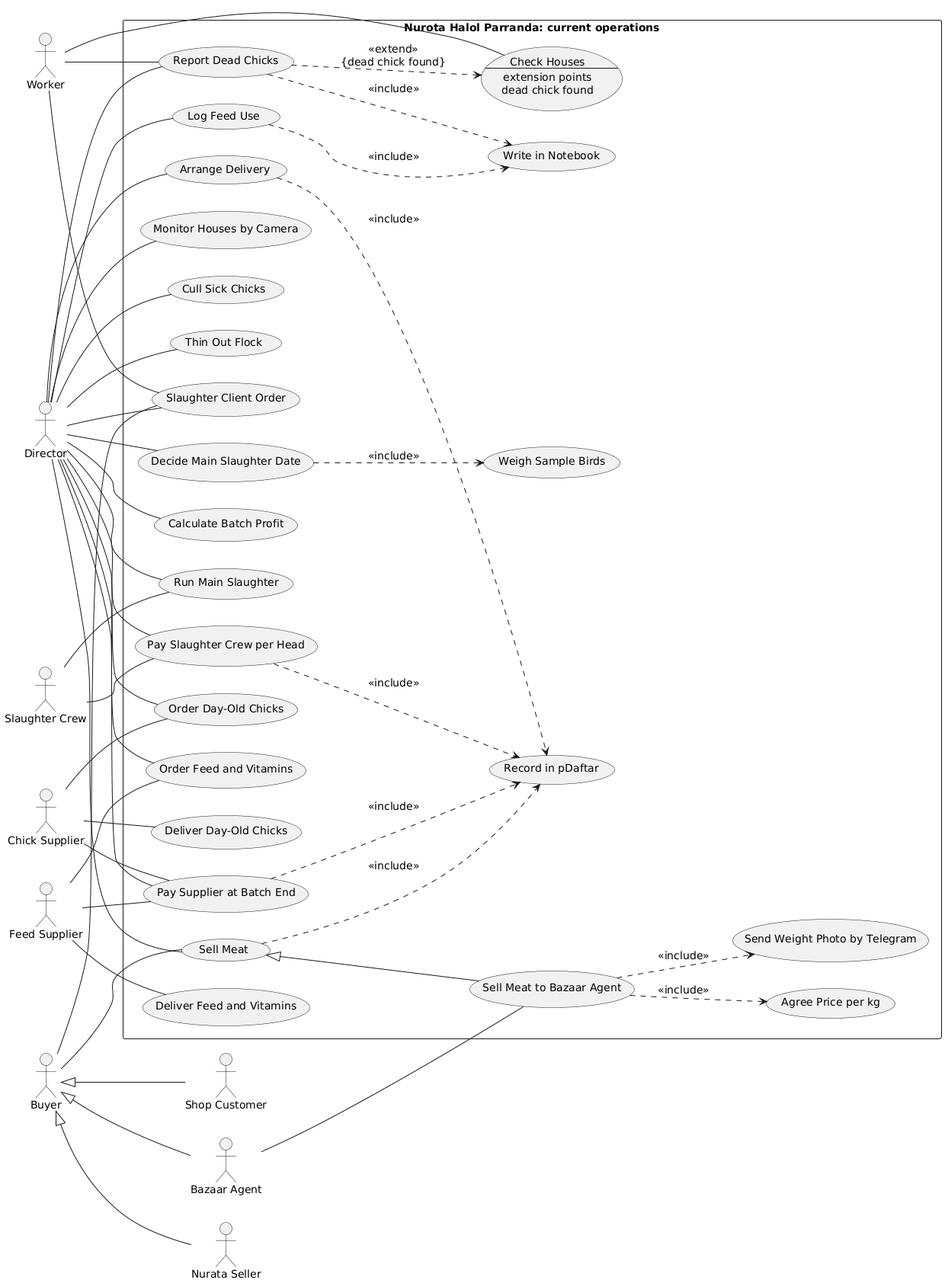
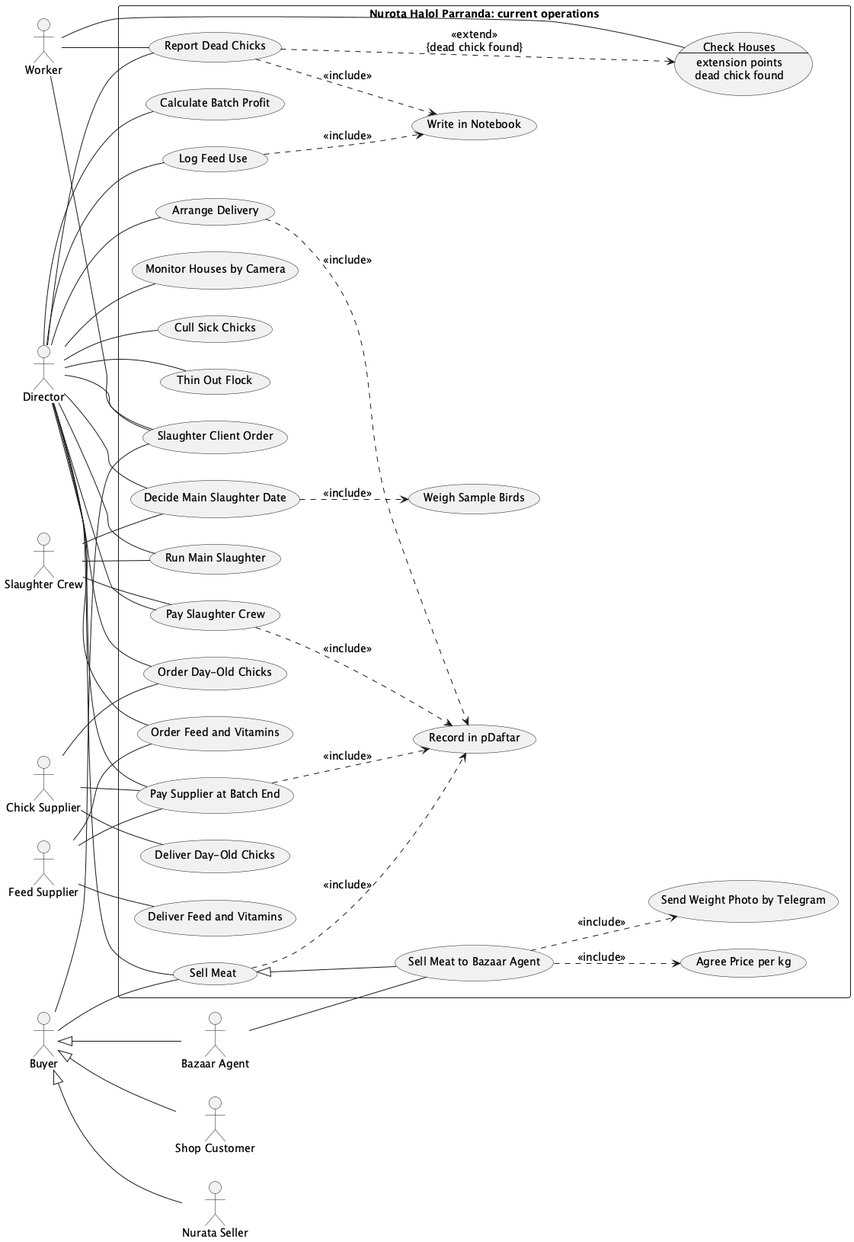
Revise use case diagram and use cases after assessor review
Rename Pay Slaughter Crew per Head to Pay Slaughter Crew, link the crew
to Decide Main Slaughter Date, re-lay out the diagram, move UC-03's repeat
session into the basic flow, describe supplier payment as contract terms
paid at batch end, and rewrite the prose to read less formulaic.

diff --git a/scripts/generate_use_cases.py b/scripts/generate_use_cases.py
@@ -16,11 +16,11 @@ UCS = [
         "Application": "Nurota Halol Parranda current operations: procurement (Figure 2.1)",
         "Use Case Name": "Order Day-Old Chicks",
         "Use Case Description": (
-            "The Director orders a new batch of chicks for an empty house from the contracted supplier in Tashkent. The chicks are bought on credit and paid for only when the batch ends, so the batch's chick cost stays unpaid while its meat is already being sold."
+            "The Director orders a new batch of chicks for an empty house from the contracted supplier in Tashkent. Because the contract has the chicks paid for only when the batch ends, the farm is already selling a batch's meat before it has paid for the birds."
         ),
         "Primary Actor": "Director",
         "Secondary Actor(s)": "Chick Supplier",
-        "Precondition": "A supply contract with credit terms is in place with the chick supplier in Tashkent.",
+        "Precondition": "A supply contract is in place with the chick supplier in Tashkent, with payment due when the batch ends.",
         "Postconditions": (
             "Day-old chicks matching the house's capacity have been delivered by the supplier, and their cost "
             "is owed to the supplier until the batch ends."
@@ -29,7 +29,7 @@ UCS = [
         "Basic Flow": [
             "The Director confirms that the house has been cleaned and prepared.",
             "The Director sets the order size from the house's 5,000–10,000-bird capacity.",
-            "The Director places the order on credit with the contracted supplier in Tashkent.",
+            "The Director places the order with the contracted supplier in Tashkent.",
             "The supplier delivers the chicks to the farm by Damas van.",
         ],
         "Extensions": [
@@ -41,10 +41,10 @@ UCS = [
         "Application": "Nurota Halol Parranda current operations: slaughter and sales (Figure 2.1)",
         "Use Case Name": "Decide Main Slaughter Date",
         "Use Case Description": (
-            "The Director decides when to call in the slaughter crew, judging the birds' age, the average weight of about ten birds and his own experience together. No record of a target weight or age is named, so the decision cannot be checked or made by anyone else."
+            "The Director decides when to call in the slaughter crew. He weighs up the birds' age, the average weight of about ten birds and his own experience. We found no written target weight or age, and the call depends on him alone: nobody else could make it or check it."
         ),
         "Primary Actor": "Director",
-        "Secondary Actor(s)": "None",
+        "Secondary Actor(s)": "Slaughter Crew",
         "Precondition": (
             "The batch is near the end of its growth period, and the early thinning of roughly 4,000 birds "
             "around day 35–40 has taken place."
@@ -55,7 +55,7 @@ UCS = [
         "Trigger": "The batch approaches the end of its 40–50-day growth period.",
         "Basic Flow": [
             "The Director checks the batch's age against its 40–50-day growth period.",
-            "The Director obtains the average weight of a random sample of about ten birds (includes Weigh Sample Birds).",
+            "The Director weighs a sample of about ten birds and takes their average (includes Weigh Sample Birds).",
             "The Director judges from the age, the sample average and his experience that the batch is ready.",
             "The Director calls in the hired crew, starting UC-03 Run Main Slaughter.",
         ],
@@ -68,16 +68,16 @@ UCS = [
         "Application": "Nurota Halol Parranda current operations: slaughter and sales (Figure 2.1)",
         "Use Case Name": "Run Main Slaughter",
         "Use Case Description": (
-            "The Director has a hired crew of about six slaughter and clean 1,000–1,200 birds in one overnight session, and a batch needs as many sessions as it takes to empty the house. The butcher is paid per head on a count agreed by word of mouth, so the figure that sets his pay is not recorded anywhere."
+            "A hired crew of about six slaughters and cleans 1,000–1,200 birds in one overnight session, and the Director calls them back as many times as it takes to empty the house. The butcher is paid per head. The count behind that pay is agreed out loud at the end of each session and is not recorded."
         ),
         "Primary Actor": "Director",
         "Secondary Actor(s)": "Slaughter Crew",
-        "Precondition": "UC-02 Decide Main Slaughter Date has concluded that the batch is ready for slaughter.",
+        "Precondition": "The Director has judged the batch ready for slaughter (UC-02 Decide Main Slaughter Date).",
         "Postconditions": (
-            "One session's birds are processed and ready for UC-04, and the head count that sets the butcher's "
-            "pay has been agreed verbally."
+            "One session's birds are processed and ready for UC-04, the head count that sets the butcher's "
+            "pay has been agreed verbally, and the crew has been called back for the next session."
         ),
-        "Trigger": "The Director calls in the hired crew.",
+        "Trigger": "The Director calls in the hired crew, first at the end of UC-02 and then once for each further session.",
         "Basic Flow": [
             "The crew arrives for an overnight session.",
             "The butcher kills each bird.",
@@ -85,9 +85,10 @@ UCS = [
             "The plucker removes the feathers.",
             "Two to three crew workers clean the internal organs.",
             "The Director and the butcher agree the session's head count verbally.",
+            "The Director calls the crew back for the next session.",
         ],
         "Extensions": [
-            "6a. Birds remain in the house after the session: the use case ends with the batch only partly slaughtered, and the Director calls the crew back for a further session, which starts this use case again.",
+            "7a. No birds remain in the house after the session: the Director does not call the crew back, the batch's slaughter is finished, and the house goes to cleaning before the next order (UC-01). The use case ends.",
         ],
     },
     {
@@ -95,7 +96,7 @@ UCS = [
         "Application": "Nurota Halol Parranda current operations: slaughter and sales (Figure 2.1)",
         "Use Case Name": "Sell Meat to Bazaar Agent",
         "Use Case Description": (
-            "The Director sells each session's meat to the Bazaar Agent, the farm's largest buyer, who resells it to seven to nine other sellers and so pays around 26,000 UZS/kg, a little below the bazaar rate. The agent's Telegram photo of the kilograms is checked against a second record kept by someone from the farm, but neither weight record reaches pDaftar, only the payment."
+            "The Bazaar Agent is the farm's largest buyer. As a middleman reselling to seven to nine other sellers, the agent pays only about 26,000 UZS/kg, a little below the bazaar rate. Someone from the farm writes down the same weighings as the agent, and the Director compares the two. Only the payment reaches pDaftar; both weight records stay outside it."
         ),
         "Primary Actor": "Director",
         "Secondary Actor(s)": "Bazaar Agent",
@@ -105,13 +106,13 @@ UCS = [
         ),
         "Trigger": "A slaughter session finishes and its meat is ready.",
         "Basic Flow": [
-            "The Director and the agent agree the price per kg verbally, a little below that day's bazaar rate (includes Agree Price per kg).",
+            "The Director and the agent agree that day's price per kg between them, a little below the bazaar rate (includes Agree Price per kg).",
             "The Director sends the meat to Navoi bazaar with a temporarily hired driver.",
             "The agent weighs the meat, while a second person from the farm records the same weighings.",
             "The agent photographs his kg totals and sends them to the Director on Telegram (includes Send Weight Photo by Telegram).",
             "The Director checks the photographed totals against the farm's own record.",
             "The agent pays the Director the total kg × the agreed price per kg in cash at the end of the day.",
-            "The Director records the revenue in pDaftar (includes Record in pDaftar, via Sell Meat).",
+            "The Director records the revenue in pDaftar (Record in pDaftar, which Sell Meat includes).",
         ],
         "Extensions": [
             "6a. The agent pays by bank transfer instead of cash: the flow resumes at step 7.",
@@ -166,13 +167,13 @@ HEAD = """# Use Cases
 <!--
 Generated by scripts/generate_use_cases.py - edit the data there and re-run it, not the tables here. Names and actors must match 2-use-case-diagram.md.
 Facts beyond 0-business-case.md come from Muzaffar's confirmed answers (see the comment in 2-use-case-diagram.md).
-Confirmed 2026-10-26 and used here: chicks only from Tashkent; chicks and feed bought on credit under contract and paid when each batch ends;
+Confirmed 2026-10-26 and used here: chicks only from Tashkent; chicks and feed bought under contract and paid when each batch ends (user confirmed again 2026-10-26: 'paid by contract', at batch end);
 suppliers deliver; readiness judged on age + random-sample average weight + experience; number of slaughter sessions per batch not fixed;
 Bazaar Agent is an independent middleman paying a little below the bazaar rate; amount owed = kg x price; a second person from the farm
 also records the bazaar weighings; agent pays cash or transfer at the end of the day.
 To confirm with Muzaffar (question -> table -> marks at stake):
 - If the agent's photo kg and the farm's record disagree, what happens? -> UC-04 exception 5a -> +1 (quality).
-- Has the crew ever disputed the head count, or not turned up? -> UC-03 / UC-02 exception -> +0.5.
+- Has the crew ever disputed the head count, or not turned up? -> UC-03 exception (its only extension, 7a, is an alternate ending) -> +0.5.
 - Have chicks ever arrived short or dead? What did the Director do? -> UC-01 exception -> +0.5.
 - Who is the "second person from our side" at the bazaar? (sections 4-5 say a Worker) -> UC-04 step 3.
 - Who weighs the sample birds? (sections 4-5 say the Director) -> UC-02 step 2.
@@ -181,21 +182,21 @@ Flag for section 1 (Muzaffar): every 2026-10-24/26 answer used here needs to be 
 Flag for Nodir: sections 4-5 say the agent pays "at" the day's bazaar rate; confirmed answer is "a little below".
 -->
 
-The four use cases follow one batch from buying the chicks to selling the meat, and each turns on a decision that moves money: what the batch costs (UC-01), when it is slaughtered (UC-02), what processing costs (UC-03) and what the meat earns (UC-04). The Feed Supplier is left out because a feed order runs on the same credit terms as UC-01. The Worker, the Nurata Seller and the Shop Customer are left out because the farm has not described the steps of their use cases. Two of the four decisions rest only on word of mouth: the butcher's head count (UC-03) and the agent's price per kg (UC-04).
+The four use cases follow one batch from buying the chicks to selling the meat. We chose them because each turns on a decision that moves money: what the batch costs (UC-01), when it is slaughtered (UC-02), what slaughtering costs (UC-03) and what the meat earns (UC-04). Feed is ordered on the same contract terms as chicks, so a feed table would repeat UC-01. Selling is shown through the Bazaar Agent, the largest channel and the only sale with steps of its own (Figure 2.1). Two of the four decisions rest on nothing more than a spoken agreement: the butcher's head count (UC-03) and the agent's price per kg (UC-04).
 """
 
 TAIL = """
-Each gap these use cases expose has to be closed by a requirement in section 7.
+Section 7 has to close each gap in the table below.
 
 | Finding | Evidence | Where it shows | Section 7 must cover |
 |---|---|---|---|
 | Deaths and feed use never reach the profit figure | Section 0: notebook and pDaftar kept separately | Write in Notebook, Record in pDaftar (Figure 2.1) | One batch record linking deaths, feed, costs and sales |
 | The slaughter date rests on a sample and judgement, with no recorded target | Section 0; interview 26-10 | UC-02 steps 2-3 | Recording sample weights and age per batch |
 | The butcher's pay rests on a spoken head count | Section 0 | UC-03 step 6 | Recording the head count per session |
-| The agent's price per kg is agreed by word of mouth | Interview 24-10 | UC-04 step 1 | Recording the agreed price and keeping a price history |
+| The agent's price per kg is agreed each time and not written down | Interview 24-10 | UC-04 step 1 | Recording the agreed price and keeping a price history |
 | The agent's kilograms can be checked only against a second record kept by the farm | Interview 26-10 | UC-04 steps 3-5 | Recording both weights and flagging any difference |
 | Chick and feed costs are settled only when the batch ends | Interview 26-10 | UC-01; Pay Supplier at Batch End | Running batch cost from the day the chicks arrive |
-| The crew is paid per head but every buyer pays per kg | Section 0 | UC-03 step 6, UC-04 step 6 | Recording heads and kilograms per session |
+| The butcher is paid per head but every buyer pays per kg | Section 0 | UC-03 step 6, UC-04 step 6 | Recording heads and kilograms per session |
 """
 
 body = [HEAD]

diff --git a/3-use-cases.md b/3-use-cases.md
@@ -5,13 +5,13 @@
 <!--
 Generated by scripts/generate_use_cases.py - edit the data there and re-run it, not the tables here. Names and actors must match 2-use-case-diagram.md.
 Facts beyond 0-business-case.md come from Muzaffar's confirmed answers (see the comment in 2-use-case-diagram.md).
-Confirmed 2026-10-26 and used here: chicks only from Tashkent; chicks and feed bought on credit under contract and paid when each batch ends;
+Confirmed 2026-10-26 and used here: chicks only from Tashkent; chicks and feed bought under contract and paid when each batch ends (user confirmed again 2026-10-26: 'paid by contract', at batch end);
 suppliers deliver; readiness judged on age + random-sample average weight + experience; number of slaughter sessions per batch not fixed;
 Bazaar Agent is an independent middleman paying a little below the bazaar rate; amount owed = kg x price; a second person from the farm
 also records the bazaar weighings; agent pays cash or transfer at the end of the day.
 To confirm with Muzaffar (question -> table -> marks at stake):
 - If the agent's photo kg and the farm's record disagree, what happens? -> UC-04 exception 5a -> +1 (quality).
-- Has the crew ever disputed the head count, or not turned up? -> UC-03 / UC-02 exception -> +0.5.
+- Has the crew ever disputed the head count, or not turned up? -> UC-03 exception (its only extension, 7a, is an alternate ending) -> +0.5.
 - Have chicks ever arrived short or dead? What did the Director do? -> UC-01 exception -> +0.5.
 - Who is the "second person from our side" at the bazaar? (sections 4-5 say a Worker) -> UC-04 step 3.
 - Who weighs the sample birds? (sections 4-5 say the Director) -> UC-02 step 2.
@@ -20,7 +20,7 @@ Flag for section 1 (Muzaffar): every 2026-10-24/26 answer used here needs to be 
 Flag for Nodir: sections 4-5 say the agent pays "at" the day's bazaar rate; confirmed answer is "a little below".
 -->
 
-The four use cases follow one batch from buying the chicks to selling the meat, and each turns on a decision that moves money: what the batch costs (UC-01), when it is slaughtered (UC-02), what processing costs (UC-03) and what the meat earns (UC-04). The Feed Supplier is left out because a feed order runs on the same credit terms as UC-01. The Worker, the Nurata Seller and the Shop Customer are left out because the farm has not described the steps of their use cases. Two of the four decisions rest only on word of mouth: the butcher's head count (UC-03) and the agent's price per kg (UC-04).
+The four use cases follow one batch from buying the chicks to selling the meat. We chose them because each turns on a decision that moves money: what the batch costs (UC-01), when it is slaughtered (UC-02), what slaughtering costs (UC-03) and what the meat earns (UC-04). Feed is ordered on the same contract terms as chicks, so a feed table would repeat UC-01. Selling is shown through the Bazaar Agent, the largest channel and the only sale with steps of its own (Figure 2.1). Two of the four decisions rest on nothing more than a spoken agreement: the butcher's head count (UC-03) and the agent's price per kg (UC-04).
 
 
 **UC-01: Order Day-Old Chicks**
@@ -33,16 +33,16 @@ The four use cases follow one batch from buying the chicks to selling the meat, 
 | **Use Case Name**        | Order Day-Old Chicks                                               |
 +--------------------------+--------------------------------------------------------------------+
 | **Use Case Description** | The Director orders a new batch of chicks for an empty house from  |
-|                          | the contracted supplier in Tashkent. The chicks are bought on      |
-|                          | credit and paid for only when the batch ends, so the batch's chick |
-|                          | cost stays unpaid while its meat is already being sold.            |
+|                          | the contracted supplier in Tashkent. Because the contract has the  |
+|                          | chicks paid for only when the batch ends, the farm is already      |
+|                          | selling a batch's meat before it has paid for the birds.           |
 +--------------------------+--------------------------------------------------------------------+
 | **Primary Actor**        | Director                                                           |
 +--------------------------+--------------------------------------------------------------------+
 | **Secondary Actor(s)**   | Chick Supplier                                                     |
 +--------------------------+--------------------------------------------------------------------+
-| **Precondition**         | A supply contract with credit terms is in place with the chick     |
-|                          | supplier in Tashkent.                                              |
+| **Precondition**         | A supply contract is in place with the chick supplier in Tashkent, |
+|                          | with payment due when the batch ends.                              |
 +--------------------------+--------------------------------------------------------------------+
 | **Postconditions**       | Day-old chicks matching the house's capacity have been delivered   |
 |                          | by the supplier, and their cost is owed to the supplier until the  |
@@ -54,8 +54,8 @@ The four use cases follow one batch from buying the chicks to selling the meat, 
 |                          |    prepared.                                                       |
 |                          | 2. The Director sets the order size from the house's               |
 |                          |    5,000–10,000-bird capacity.                                     |
-|                          | 3. The Director places the order on credit with the contracted     |
-|                          |    supplier in Tashkent.                                           |
+|                          | 3. The Director places the order with the contracted supplier in   |
+|                          |    Tashkent.                                                       |
 |                          | 4. The supplier delivers the chicks to the farm by Damas van.      |
 +--------------------------+--------------------------------------------------------------------+
 | **Extensions (Alternate  | 1a. The house is not yet cleaned: the order waits until cleaning   |
@@ -73,14 +73,14 @@ The four use cases follow one batch from buying the chicks to selling the meat, 
 +--------------------------+--------------------------------------------------------------------+
 | **Use Case Name**        | Decide Main Slaughter Date                                         |
 +--------------------------+--------------------------------------------------------------------+
-| **Use Case Description** | The Director decides when to call in the slaughter crew, judging   |
-|                          | the birds' age, the average weight of about ten birds and his own  |
-|                          | experience together. No record of a target weight or age is named, |
-|                          | so the decision cannot be checked or made by anyone else.          |
+| **Use Case Description** | The Director decides when to call in the slaughter crew. He weighs |
+|                          | up the birds' age, the average weight of about ten birds and his   |
+|                          | own experience. We found no written target weight or age, and the  |
+|                          | call depends on him alone: nobody else could make it or check it.  |
 +--------------------------+--------------------------------------------------------------------+
 | **Primary Actor**        | Director                                                           |
 +--------------------------+--------------------------------------------------------------------+
-| **Secondary Actor(s)**   | None                                                               |
+| **Secondary Actor(s)**   | Slaughter Crew                                                     |
 +--------------------------+--------------------------------------------------------------------+
 | **Precondition**         | The batch is near the end of its growth period, and the early      |
 |                          | thinning of roughly 4,000 birds around day 35–40 has taken place.  |
@@ -91,8 +91,8 @@ The four use cases follow one batch from buying the chicks to selling the meat, 
 +--------------------------+--------------------------------------------------------------------+
 | **Basic Flow**           | 1. The Director checks the batch's age against its 40–50-day       |
 |                          |    growth period.                                                  |
-|                          | 2. The Director obtains the average weight of a random sample of   |
-|                          |    about ten birds (includes Weigh Sample Birds).                  |
+|                          | 2. The Director weighs a sample of about ten birds and takes their |
+|                          |    average (includes Weigh Sample Birds).                          |
 |                          | 3. The Director judges from the age, the sample average and his    |
 |                          |    experience that the batch is ready.                             |
 |                          | 4. The Director calls in the hired crew, starting UC-03 Run Main   |
@@ -114,23 +114,25 @@ The four use cases follow one batch from buying the chicks to selling the meat, 
 +--------------------------+--------------------------------------------------------------------+
 | **Use Case Name**        | Run Main Slaughter                                                 |
 +--------------------------+--------------------------------------------------------------------+
-| **Use Case Description** | The Director has a hired crew of about six slaughter and clean     |
-|                          | 1,000–1,200 birds in one overnight session, and a batch needs as   |
-|                          | many sessions as it takes to empty the house. The butcher is paid  |
-|                          | per head on a count agreed by word of mouth, so the figure that    |
-|                          | sets his pay is not recorded anywhere.                             |
+| **Use Case Description** | A hired crew of about six slaughters and cleans 1,000–1,200 birds  |
+|                          | in one overnight session, and the Director calls them back as many |
+|                          | times as it takes to empty the house. The butcher is paid per      |
+|                          | head. The count behind that pay is agreed out loud at the end of   |
+|                          | each session and is not recorded.                                  |
 +--------------------------+--------------------------------------------------------------------+
 | **Primary Actor**        | Director                                                           |
 +--------------------------+--------------------------------------------------------------------+
 | **Secondary Actor(s)**   | Slaughter Crew                                                     |
 +--------------------------+--------------------------------------------------------------------+
-| **Precondition**         | UC-02 Decide Main Slaughter Date has concluded that the batch is   |
-|                          | ready for slaughter.                                               |
+| **Precondition**         | The Director has judged the batch ready for slaughter (UC-02       |
+|                          | Decide Main Slaughter Date).                                       |
 +--------------------------+--------------------------------------------------------------------+
-| **Postconditions**       | One session's birds are processed and ready for UC-04, and the     |
-|                          | head count that sets the butcher's pay has been agreed verbally.   |
+| **Postconditions**       | One session's birds are processed and ready for UC-04, the head    |
+|                          | count that sets the butcher's pay has been agreed verbally, and    |
+|                          | the crew has been called back for the next session.                |
 +--------------------------+--------------------------------------------------------------------+
-| **Trigger**              | The Director calls in the hired crew.                              |
+| **Trigger**              | The Director calls in the hired crew, first at the end of UC-02    |
+|                          | and then once for each further session.                            |
 +--------------------------+--------------------------------------------------------------------+
 | **Basic Flow**           | 1. The crew arrives for an overnight session.                      |
 |                          | 2. The butcher kills each bird.                                    |
@@ -139,10 +141,12 @@ The four use cases follow one batch from buying the chicks to selling the meat, 
 |                          | 5. Two to three crew workers clean the internal organs.            |
 |                          | 6. The Director and the butcher agree the session's head count     |
 |                          |    verbally.                                                       |
+|                          | 7. The Director calls the crew back for the next session.          |
 +--------------------------+--------------------------------------------------------------------+
-| **Extensions (Alternate  | 6a. Birds remain in the house after the session: the use case ends |
-| Flows)**                 | with the batch only partly slaughtered, and the Director calls the |
-|                          | crew back for a further session, which starts this use case again. |
+| **Extensions (Alternate  | 7a. No birds remain in the house after the session: the Director   |
+| Flows)**                 | does not call the crew back, the batch's slaughter is finished,    |
+|                          | and the house goes to cleaning before the next order (UC-01). The  |
+|                          | use case ends.                                                     |
 +--------------------------+--------------------------------------------------------------------+
 
 
@@ -156,12 +160,12 @@ The four use cases follow one batch from buying the chicks to selling the meat, 
 +--------------------------+--------------------------------------------------------------------+
 | **Use Case Name**        | Sell Meat to Bazaar Agent                                          |
 +--------------------------+--------------------------------------------------------------------+
-| **Use Case Description** | The Director sells each session's meat to the Bazaar Agent, the    |
-|                          | farm's largest buyer, who resells it to seven to nine other        |
-|                          | sellers and so pays around 26,000 UZS/kg, a little below the       |
-|                          | bazaar rate. The agent's Telegram photo of the kilograms is        |
-|                          | checked against a second record kept by someone from the farm, but |
-|                          | neither weight record reaches pDaftar, only the payment.           |
+| **Use Case Description** | The Bazaar Agent is the farm's largest buyer. As a middleman       |
+|                          | reselling to seven to nine other sellers, the agent pays only      |
+|                          | about 26,000 UZS/kg, a little below the bazaar rate. Someone from  |
+|                          | the farm writes down the same weighings as the agent, and the      |
+|                          | Director compares the two. Only the payment reaches pDaftar; both  |
+|                          | weight records stay outside it.                                    |
 +--------------------------+--------------------------------------------------------------------+
 | **Primary Actor**        | Director                                                           |
 +--------------------------+--------------------------------------------------------------------+
@@ -174,9 +178,9 @@ The four use cases follow one batch from buying the chicks to selling the meat, 
 +--------------------------+--------------------------------------------------------------------+
 | **Trigger**              | A slaughter session finishes and its meat is ready.                |
 +--------------------------+--------------------------------------------------------------------+
-| **Basic Flow**           | 1. The Director and the agent agree the price per kg verbally, a   |
-|                          |    little below that day's bazaar rate (includes Agree Price per   |
-|                          |    kg).                                                            |
+| **Basic Flow**           | 1. The Director and the agent agree that day's price per kg        |
+|                          |    between them, a little below the bazaar rate (includes Agree    |
+|                          |    Price per kg).                                                  |
 |                          | 2. The Director sends the meat to Navoi bazaar with a temporarily  |
 |                          |    hired driver.                                                   |
 |                          | 3. The agent weighs the meat, while a second person from the farm  |
@@ -187,22 +191,22 @@ The four use cases follow one batch from buying the chicks to selling the meat, 
 |                          |    own record.                                                     |
 |                          | 6. The agent pays the Director the total kg × the agreed price per |
 |                          |    kg in cash at the end of the day.                               |
-|                          | 7. The Director records the revenue in pDaftar (includes Record in |
-|                          |    pDaftar, via Sell Meat).                                        |
+|                          | 7. The Director records the revenue in pDaftar (Record in pDaftar, |
+|                          |    which Sell Meat includes).                                      |
 +--------------------------+--------------------------------------------------------------------+
 | **Extensions (Alternate  | 6a. The agent pays by bank transfer instead of cash: the flow      |
 | Flows)**                 | resumes at step 7.                                                 |
 +--------------------------+--------------------------------------------------------------------+
 
 
-Each gap these use cases expose has to be closed by a requirement in section 7.
+Section 7 has to close each gap in the table below.
 
 | Finding | Evidence | Where it shows | Section 7 must cover |
 |---|---|---|---|
 | Deaths and feed use never reach the profit figure | Section 0: notebook and pDaftar kept separately | Write in Notebook, Record in pDaftar (Figure 2.1) | One batch record linking deaths, feed, costs and sales |
 | The slaughter date rests on a sample and judgement, with no recorded target | Section 0; interview 26-10 | UC-02 steps 2-3 | Recording sample weights and age per batch |
 | The butcher's pay rests on a spoken head count | Section 0 | UC-03 step 6 | Recording the head count per session |
-| The agent's price per kg is agreed by word of mouth | Interview 24-10 | UC-04 step 1 | Recording the agreed price and keeping a price history |
+| The agent's price per kg is agreed each time and not written down | Interview 24-10 | UC-04 step 1 | Recording the agreed price and keeping a price history |
 | The agent's kilograms can be checked only against a second record kept by the farm | Interview 26-10 | UC-04 steps 3-5 | Recording both weights and flagging any difference |
 | Chick and feed costs are settled only when the batch ends | Interview 26-10 | UC-01; Pay Supplier at Batch End | Running batch cost from the day the chicks arrive |
-| The crew is paid per head but every buyer pays per kg | Section 0 | UC-03 step 6, UC-04 step 6 | Recording heads and kilograms per session |
+| The butcher is paid per head but every buyer pays per kg | Section 0 | UC-03 step 6, UC-04 step 6 | Recording heads and kilograms per session |

diff --git a/2-use-case-diagram.md b/2-use-case-diagram.md
@@ -5,7 +5,7 @@
 <!--
 Scope: AS-IS (the farm's current manual process), per CLAUDE.md. The proposed system belongs in section 7 only.
 One diagram, embedded as diagrams/use-case-diagram.png. Its source is diagrams/use-case-diagram.puml, rendered with Graphviz dot
-(the pipeline's smetana engine cannot lay out 25 use cases legibly). Re-render: java -jar tools/plantuml.jar -tpng diagrams/use-case-diagram.puml
+(the pipeline's smetana engine cannot lay out 24 use cases legibly). Re-render: java -jar tools/plantuml.jar -tpng diagrams/use-case-diagram.puml
 
 Stated in 0-business-case.md: suppliers on contract; verbal death reports logged in the notebook with feed use; butcher paid per
 head on a verbally agreed count; Bazaar Agent is a middleman who sends daily kg photos on Telegram and settles by cash or transfer;
@@ -14,7 +14,7 @@ pDaftar holds costs, revenue and profit.
 Confirmed by Muzaffar but not (yet) in 0-business-case.md:
 - 2026-10-24: per-kg price with the Bazaar Agent is agreed verbally each time; delivery driver for the meat run is a temporary hire
   arranged by the Director (not an actor); the Director checks the camera app (Monitor Houses by Camera).
-- 2026-10-26 (interview): chicks come only from Tashkent; chicks and feed are bought on credit (nasiya) under contract and paid when
+- 2026-10-26 (interview): chicks come only from Tashkent; chicks and feed are bought under contract and paid when
   each batch ends; the suppliers deliver both; the agent is an independent middleman who pays a little below the bazaar rate;
   readiness is judged on age + random-sample average weight + experience; the number of slaughter sessions per batch is not fixed;
   birds are sold only as meat; amount owed = kg x price, and a second person from the farm also records the bazaar weighings.
@@ -31,17 +31,20 @@ Step 0 decisions (2026-10-26): boundary = the farm's manual procedures and recor
 The Director is kept as one actor; his three roles (owner, production decider, record keeper) are stated as a finding.
 Postpone Slaughter removed from the diagram: it restarts the decision rather than adding to it, so it is UC-02 extension 3a.
 Calculate Batch Profit no longer includes Record in pDaftar: it only reads it.
+2026-10-26 rename: "Pay Slaughter Crew per Head" -> "Pay Slaughter Crew" (section 0 says only the butcher is paid per head).
+FLAG for Nodir: 4-data-flow-diagram.md line 33 still uses the old name.
+UC-02 now lists the Slaughter Crew as secondary actor, so the diagram links Slaughter Crew to Decide Main Slaughter Date.
 Reference names for sections 3-7: Director, Worker, Slaughter Crew, Chick Supplier, Feed Supplier, Buyer / Bazaar Agent / Nurata Seller / Shop Customer, and the use case names below.
 -->
 
-The diagram shows how Nurota Halol Parranda works today, from ordering chicks to selling the meat, without any computer system. The boundary is the farm's manual procedures and records, so the Director and the Workers, who use them, are drawn as actors; section 4 draws its boundary around the farm itself, which is why the same two people sit inside it there. Outside the farm are the two suppliers, the hired Slaughter Crew and the buyers. The Bazaar Agent, the Nurata Seller and the Shop Customer are drawn as kinds of Buyer, and Buyer also places the small client orders, because the farm has not said which buyers these are. House cleaning between batches is not drawn, because the farm has not said who does it, and the Delivery Driver is not an actor, because he is a temporary hire who appears only as a cost in Arrange Delivery.
+The diagram shows how Nurota Halol Parranda runs today, from ordering chicks to selling the meat, with no computer system involved. We drew the boundary around the farm's manual procedures and records rather than around the farm itself. That is why the Director and the Workers are actors here but sit inside the boundary in the section 4 DFD. The two suppliers, the hired Slaughter Crew and the buyers are outside. The Bazaar Agent, the Nurata Seller and the Shop Customer are kinds of Buyer. Small client orders are linked to Buyer in general, since we do not yet know which buyers place them. House cleaning between batches is left off until we know who does it. The delivery driver is a temporary hire who shows up only as a cost in Arrange Delivery, so the driver is not an actor.
 
 ![Use case diagram of the farm's current operations](diagrams/use-case-diagram.png)
 
 *Figure 2.1: Use case diagram of the farm's current (as-is) operations*
 
-The farm keeps two kinds of record and never joins them. Report Dead Chicks and Log Feed Use both include Write in Notebook, while paying the suppliers, paying the crew, arranging delivery and selling meat all include Record in pDaftar. Calculate Batch Profit reads only pDaftar, so a batch's profit is never set against the deaths and feed use that explain it. A house check leaves a record only when it finds a dead chick, which is why Report Dead Chicks extends Check Houses at that one point.
+The farm keeps two kinds of record and never joins them. Report Dead Chicks and Log Feed Use both include Write in Notebook. Paying the suppliers, paying the crew, arranging delivery and selling meat all include Record in pDaftar. Calculate Batch Profit reads only pDaftar, so a batch's profit is never set against the deaths and feed use behind it. A house check leaves a record only when a dead chick is found, and that is the one point where Report Dead Chicks extends Check Houses.
 
-The Director is linked to 15 of the 24 use cases. He orders, decides when to cull, thin and slaughter, pays, sells and keeps both records, so the farm's owner, production manager and bookkeeper are one person. Two of his money decisions rest on figures agreed only by word of mouth, the butcher's head count and the agent's price per kg, and a third, the slaughter date, rests on a sample of about ten birds and his own experience. The crew is paid per head while every buyer pays per kg, and no record links the two, so the farm cannot tell what processing costs per kilogram sold. Chicks and feed are bought on credit, which is why Pay Supplier at Batch End is separate from ordering, and a batch's chick and feed costs are settled only after its meat has been sold.
+The Director is linked to 15 of the 24 use cases. In practice the farm's owner, production manager and bookkeeper are the same person. Three of his money decisions rest on judgement or a spoken agreement: the butcher's head count, the agent's price per kg, and the slaughter date, which he sets from a sample of about ten birds and his own experience. The butcher is paid per head, but every buyer pays per kilogram, and no record links the two. As a result, the farm cannot tell what slaughtering costs per kilogram sold. Under the supply contract, chicks and feed are paid for when the batch ends, and Pay Supplier at Batch End is drawn apart from ordering for that reason: a batch's chick and feed bills are settled only after its meat has been sold.
 
-Sell Meat to Bazaar Agent is drawn as a special case of Sell Meat because only this sale has steps of its own: the price agreed by word of mouth and the Telegram weight photo. It is also the only place where the farm checks a figure given to it by an outsider, because someone from the farm records the same weighings as the agent.
+Sell Meat to Bazaar Agent is a special case of Sell Meat because only this sale has steps of its own: a price agreed each time in conversation, and a Telegram photo of the weights. It is also the one place where the farm checks a figure from an outsider. Someone from the farm writes down the same weighings as the agent.
